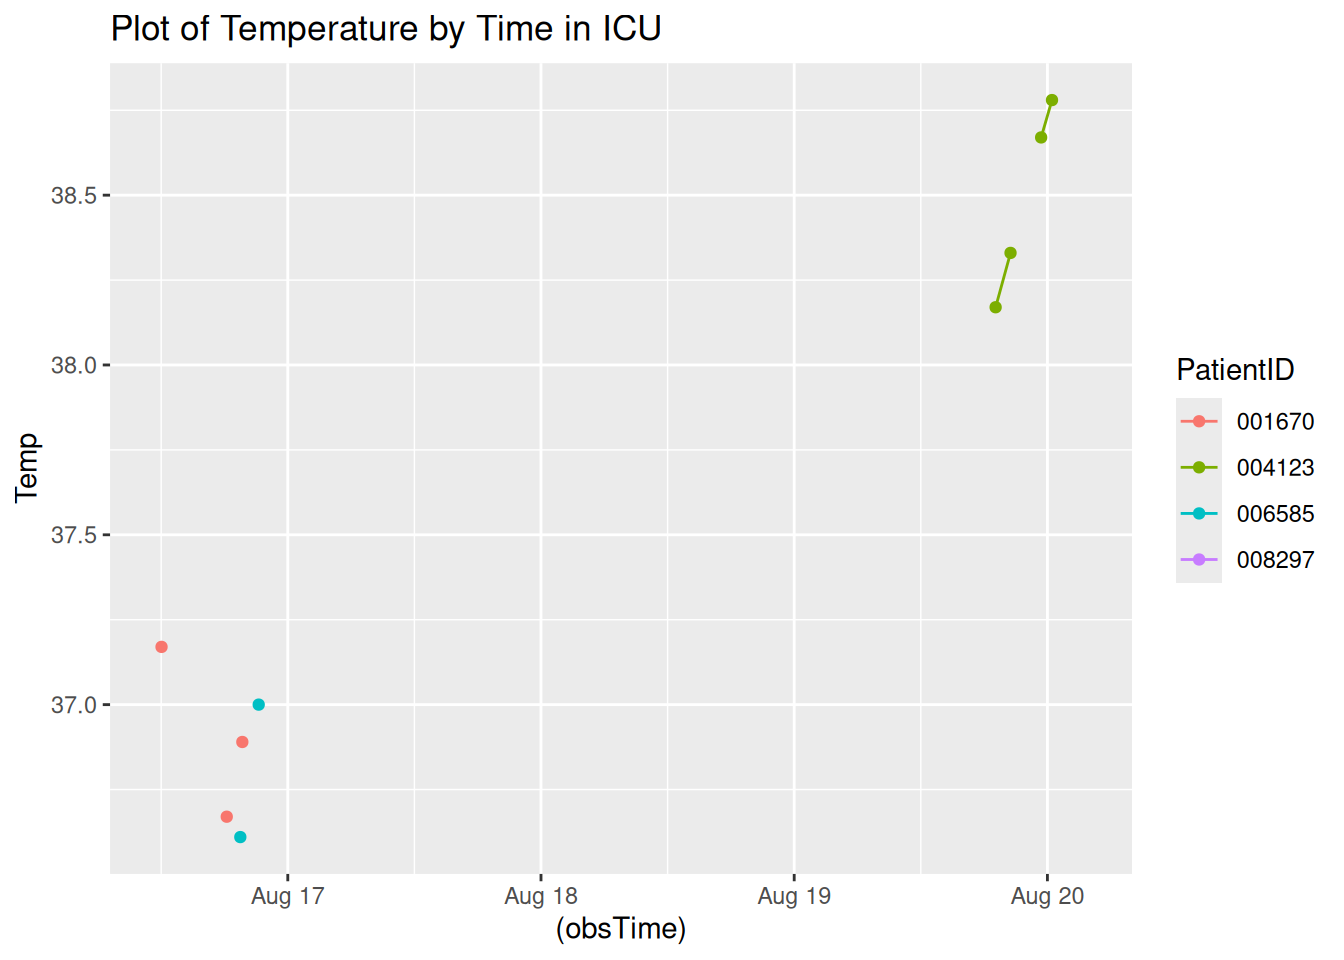
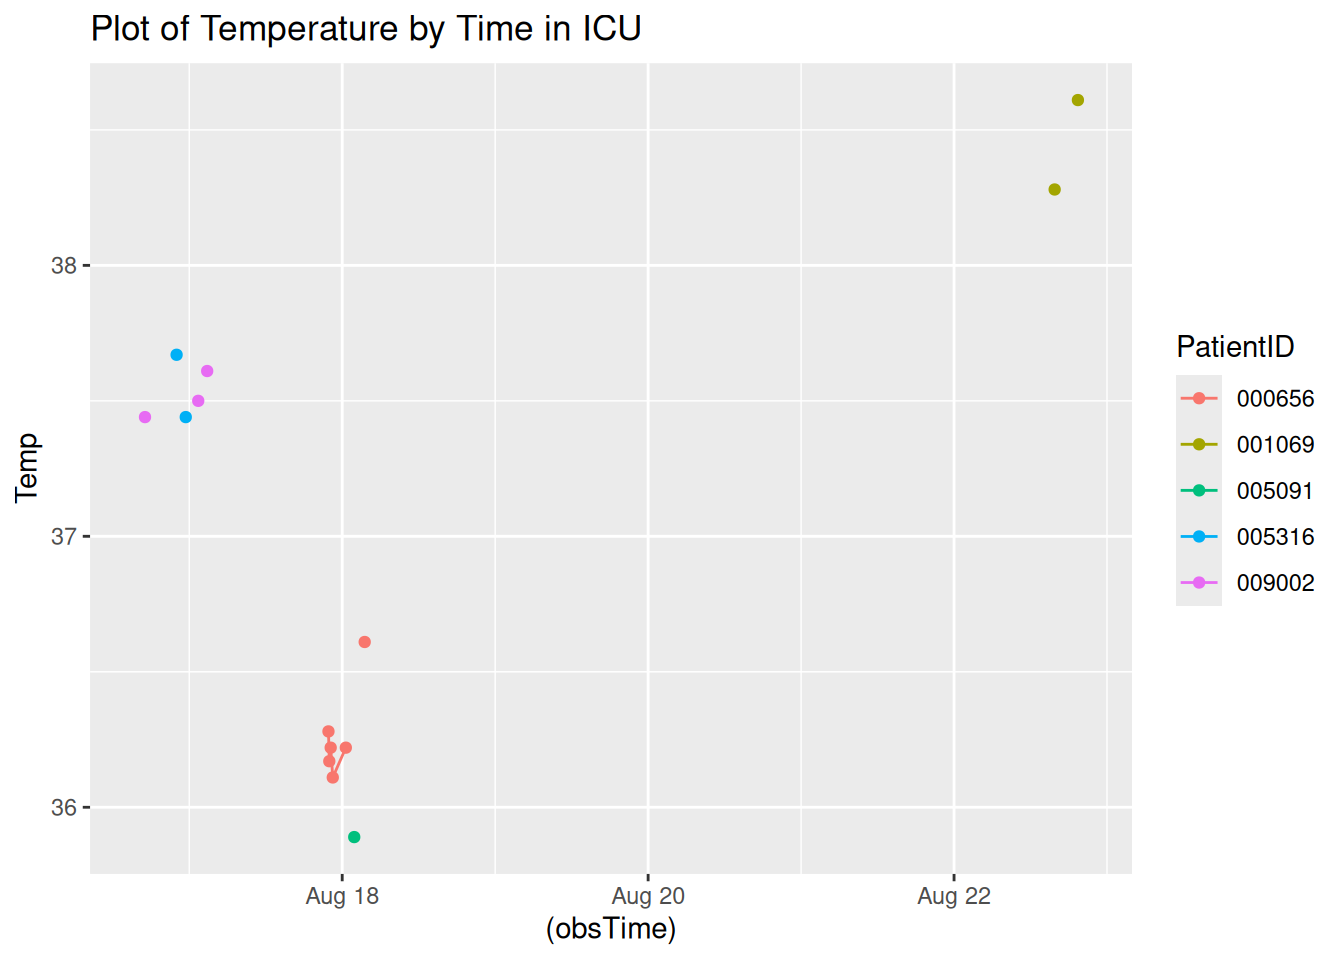
Updated report

diff --git a/A7.html b/A7.html
@@ -124,7 +124,7 @@ pre > code.sourceCode > span > a:first-child::before { text-decoration: underlin
 </div>
 <div class="code-copy-outer-scaffold"><div class="sourceCode cell-code" id="cb4"><pre class="sourceCode r code-with-copy"><code class="sourceCode r"><span id="cb4-1"><a href="#cb4-1" aria-hidden="true" tabindex="-1"></a><span class="fu">toc</span>()</span></code></pre></div><button title="Copy to Clipboard" class="code-copy-button"><i class="bi"></i></button></div>
 <div class="cell-output cell-output-stdout">
-<pre><code>23.785 sec elapsed</code></pre>
+<pre><code>22.956 sec elapsed</code></pre>
 </div>
 <div class="code-copy-outer-scaffold"><div class="sourceCode cell-code" id="cb6"><pre class="sourceCode r code-with-copy"><code class="sourceCode r"><span id="cb6-1"><a href="#cb6-1" aria-hidden="true" tabindex="-1"></a><span class="fu">tic</span>()</span>
 <span id="cb6-2"><a href="#cb6-2" aria-hidden="true" tabindex="-1"></a>test1<span class="ot">=</span><span class="fu">makeSepsisDataset</span>(<span class="at">n=</span><span class="dv">50</span>,<span class="at">read_fn =</span> <span class="st">"read_delim"</span>)</span>
@@ -134,7 +134,7 @@ pre > code.sourceCode > span > a:first-child::before { text-decoration: underlin
 </div>
 <div class="code-copy-outer-scaffold"><div class="sourceCode cell-code" id="cb8"><pre class="sourceCode r code-with-copy"><code class="sourceCode r"><span id="cb8-1"><a href="#cb8-1" aria-hidden="true" tabindex="-1"></a><span class="fu">toc</span>()</span></code></pre></div><button title="Copy to Clipboard" class="code-copy-button"><i class="bi"></i></button></div>
 <div class="cell-output cell-output-stdout">
-<pre><code>20.469 sec elapsed</code></pre>
+<pre><code>20.038 sec elapsed</code></pre>
 </div>
 <div class="code-copy-outer-scaffold"><div class="sourceCode cell-code" id="cb10"><pre class="sourceCode r code-with-copy"><code class="sourceCode r"><span id="cb10-1"><a href="#cb10-1" aria-hidden="true" tabindex="-1"></a><span class="co"># n=100</span></span>
 <span id="cb10-2"><a href="#cb10-2" aria-hidden="true" tabindex="-1"></a><span class="fu">tic</span>()</span>
@@ -145,7 +145,7 @@ pre > code.sourceCode > span > a:first-child::before { text-decoration: underlin
 </div>
 <div class="code-copy-outer-scaffold"><div class="sourceCode cell-code" id="cb12"><pre class="sourceCode r code-with-copy"><code class="sourceCode r"><span id="cb12-1"><a href="#cb12-1" aria-hidden="true" tabindex="-1"></a><span class="fu">toc</span>()</span></code></pre></div><button title="Copy to Clipboard" class="code-copy-button"><i class="bi"></i></button></div>
 <div class="cell-output cell-output-stdout">
-<pre><code>37.992 sec elapsed</code></pre>
+<pre><code>38.813 sec elapsed</code></pre>
 </div>
 <div class="code-copy-outer-scaffold"><div class="sourceCode cell-code" id="cb14"><pre class="sourceCode r code-with-copy"><code class="sourceCode r"><span id="cb14-1"><a href="#cb14-1" aria-hidden="true" tabindex="-1"></a><span class="fu">tic</span>()</span>
 <span id="cb14-2"><a href="#cb14-2" aria-hidden="true" tabindex="-1"></a>test1<span class="ot">=</span><span class="fu">makeSepsisDataset</span>(<span class="at">n=</span><span class="dv">100</span>,<span class="at">read_fn =</span> <span class="st">"read_delim"</span>)</span>
@@ -155,7 +155,7 @@ pre > code.sourceCode > span > a:first-child::before { text-decoration: underlin
 </div>
 <div class="code-copy-outer-scaffold"><div class="sourceCode cell-code" id="cb16"><pre class="sourceCode r code-with-copy"><code class="sourceCode r"><span id="cb16-1"><a href="#cb16-1" aria-hidden="true" tabindex="-1"></a><span class="fu">toc</span>()</span></code></pre></div><button title="Copy to Clipboard" class="code-copy-button"><i class="bi"></i></button></div>
 <div class="cell-output cell-output-stdout">
-<pre><code>39.533 sec elapsed</code></pre>
+<pre><code>40.53 sec elapsed</code></pre>
 </div>
 <div class="code-copy-outer-scaffold"><div class="sourceCode cell-code" id="cb18"><pre class="sourceCode r code-with-copy"><code class="sourceCode r"><span id="cb18-1"><a href="#cb18-1" aria-hidden="true" tabindex="-1"></a><span class="co"># n=500</span></span>
 <span id="cb18-2"><a href="#cb18-2" aria-hidden="true" tabindex="-1"></a><span class="fu">tic</span>()</span>
@@ -166,7 +166,7 @@ pre > code.sourceCode > span > a:first-child::before { text-decoration: underlin
 </div>
 <div class="code-copy-outer-scaffold"><div class="sourceCode cell-code" id="cb20"><pre class="sourceCode r code-with-copy"><code class="sourceCode r"><span id="cb20-1"><a href="#cb20-1" aria-hidden="true" tabindex="-1"></a><span class="fu">toc</span>()</span></code></pre></div><button title="Copy to Clipboard" class="code-copy-button"><i class="bi"></i></button></div>
 <div class="cell-output cell-output-stdout">
-<pre><code>197.98 sec elapsed</code></pre>
+<pre><code>195.816 sec elapsed</code></pre>
 </div>
 <div class="code-copy-outer-scaffold"><div class="sourceCode cell-code" id="cb22"><pre class="sourceCode r code-with-copy"><code class="sourceCode r"><span id="cb22-1"><a href="#cb22-1" aria-hidden="true" tabindex="-1"></a><span class="fu">tic</span>()</span>
 <span id="cb22-2"><a href="#cb22-2" aria-hidden="true" tabindex="-1"></a>test1<span class="ot">=</span><span class="fu">makeSepsisDataset</span>(<span class="at">n=</span><span class="dv">500</span>,<span class="at">read_fn =</span> <span class="st">"read_delim"</span>)</span>
@@ -176,7 +176,7 @@ pre > code.sourceCode > span > a:first-child::before { text-decoration: underlin
 </div>
 <div class="code-copy-outer-scaffold"><div class="sourceCode cell-code" id="cb24"><pre class="sourceCode r code-with-copy"><code class="sourceCode r"><span id="cb24-1"><a href="#cb24-1" aria-hidden="true" tabindex="-1"></a><span class="fu">toc</span>()</span></code></pre></div><button title="Copy to Clipboard" class="code-copy-button"><i class="bi"></i></button></div>
 <div class="cell-output cell-output-stdout">
-<pre><code>200.783 sec elapsed</code></pre>
+<pre><code>204.186 sec elapsed</code></pre>
 </div>
 </div>
 <p><strong>Task 3</strong></p>
@@ -212,7 +212,7 @@ readr 2.2.0.
 <span id="cb30-4"><a href="#cb30-4" aria-hidden="true" tabindex="-1"></a></span>
 <span id="cb30-5"><a href="#cb30-5" aria-hidden="true" tabindex="-1"></a><span class="fu">Sys.time</span>()</span></code></pre></div><button title="Copy to Clipboard" class="code-copy-button"><i class="bi"></i></button></div>
 <div class="cell-output cell-output-stdout">
-<pre><code>[1] "2026-08-16 11:33:33 UTC"</code></pre>
+<pre><code>[1] "2026-08-16 12:56:10 UTC"</code></pre>
 </div>
 <div class="code-copy-outer-scaffold"><div class="sourceCode cell-code" id="cb32"><pre class="sourceCode r code-with-copy"><code class="sourceCode r"><span id="cb32-1"><a href="#cb32-1" aria-hidden="true" tabindex="-1"></a>dfnew <span class="ot">&lt;-</span> df <span class="sc">%&gt;%</span></span>
 <span id="cb32-2"><a href="#cb32-2" aria-hidden="true" tabindex="-1"></a>  <span class="fu">subset</span>(SepsisLabel<span class="sc">==</span><span class="dv">1</span>)</span>
@@ -241,40 +241,49 @@ readr 2.2.0.
 </thead>
 <tbody>
 <tr class="odd">
-<td style="text-align: left;">001670</td>
-<td style="text-align: right;">9</td>
-<td style="text-align: right;">85</td>
-<td style="text-align: right;">36.89</td>
-<td style="text-align: right;">49</td>
-<td style="text-align: right;">1</td>
-<td style="text-align: left;">2026-08-16 19:41:29</td>
-</tr>
-<tr class="even">
-<td style="text-align: left;">004123</td>
-<td style="text-align: right;">89</td>
-<td style="text-align: right;">100</td>
-<td style="text-align: right;">NA</td>
-<td style="text-align: right;">27</td>
-<td style="text-align: right;">1</td>
-<td style="text-align: left;">2026-08-20 03:38:13</td>
-</tr>
-<tr class="odd">
-<td style="text-align: left;">006585</td>
-<td style="text-align: right;">13</td>
-<td style="text-align: right;">126</td>
-<td style="text-align: right;">NA</td>
-<td style="text-align: right;">23</td>
-<td style="text-align: right;">1</td>
-<td style="text-align: left;">2026-08-16 23:46:06</td>
-</tr>
-<tr class="even">
-<td style="text-align: left;">008297</td>
-<td style="text-align: right;">39</td>
-<td style="text-align: right;">90</td>
+<td style="text-align: left;">000656</td>
+<td style="text-align: right;">40</td>
+<td style="text-align: right;">82</td>
 <td style="text-align: right;">NA</td>
 <td style="text-align: right;">17</td>
 <td style="text-align: right;">1</td>
-<td style="text-align: left;">2026-08-18 01:50:09</td>
+<td style="text-align: left;">2026-08-18 03:40:11</td>
+</tr>
+<tr class="even">
+<td style="text-align: left;">001069</td>
+<td style="text-align: right;">152</td>
+<td style="text-align: right;">93</td>
+<td style="text-align: right;">NA</td>
+<td style="text-align: right;">16</td>
+<td style="text-align: right;">1</td>
+<td style="text-align: left;">2026-08-22 20:31:36</td>
+</tr>
+<tr class="odd">
+<td style="text-align: left;">005091</td>
+<td style="text-align: right;">41</td>
+<td style="text-align: right;">73</td>
+<td style="text-align: right;">NA</td>
+<td style="text-align: right;">15</td>
+<td style="text-align: right;">1</td>
+<td style="text-align: left;">2026-08-18 04:32:11</td>
+</tr>
+<tr class="even">
+<td style="text-align: left;">005316</td>
+<td style="text-align: right;">12</td>
+<td style="text-align: right;">68</td>
+<td style="text-align: right;">NA</td>
+<td style="text-align: right;">20</td>
+<td style="text-align: right;">1</td>
+<td style="text-align: left;">2026-08-17 00:04:10</td>
+</tr>
+<tr class="odd">
+<td style="text-align: left;">009002</td>
+<td style="text-align: right;">14</td>
+<td style="text-align: right;">88</td>
+<td style="text-align: right;">37.61</td>
+<td style="text-align: right;">9</td>
+<td style="text-align: right;">1</td>
+<td style="text-align: left;">2026-08-17 02:48:55</td>
 </tr>
 </tbody>
 </table>
